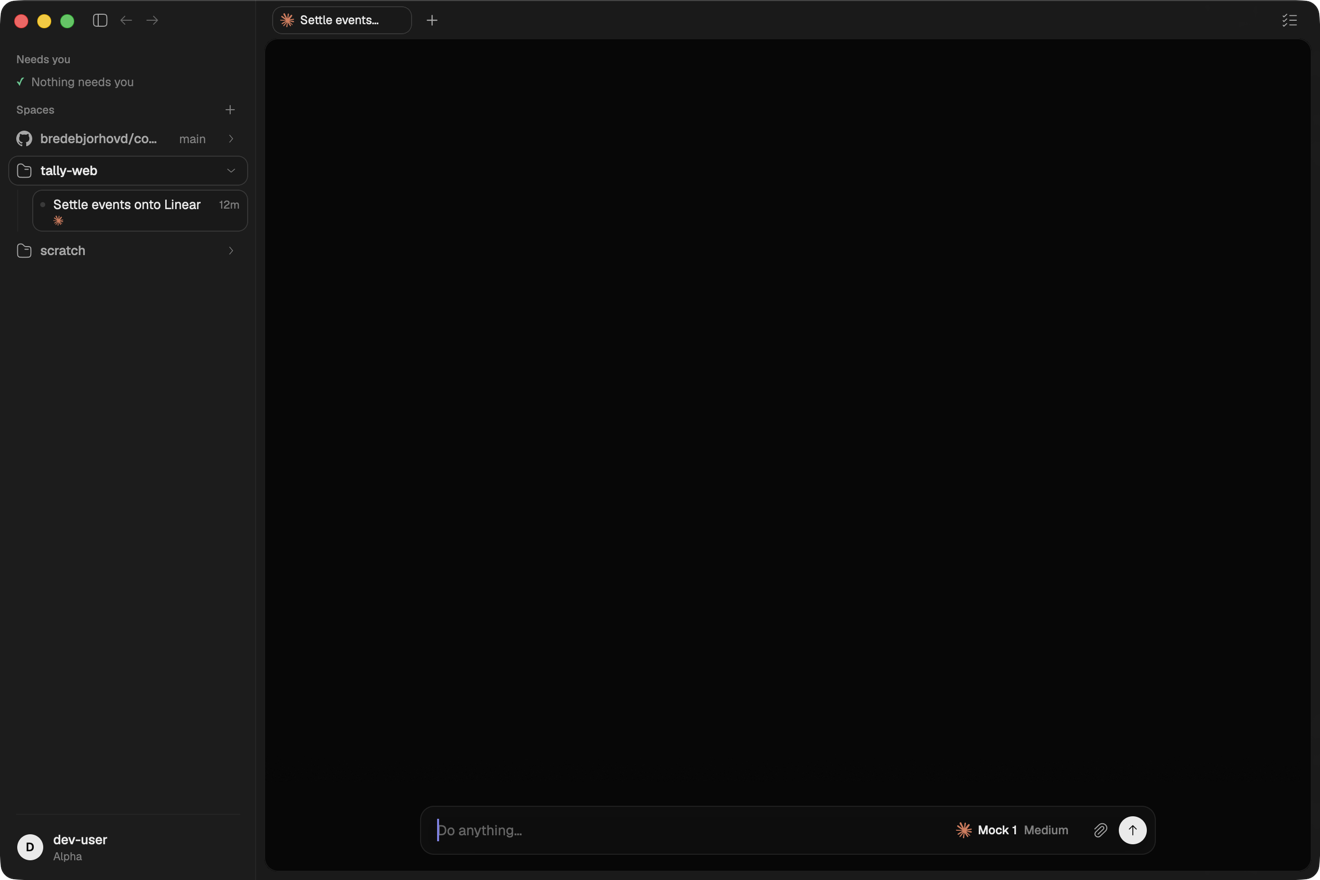
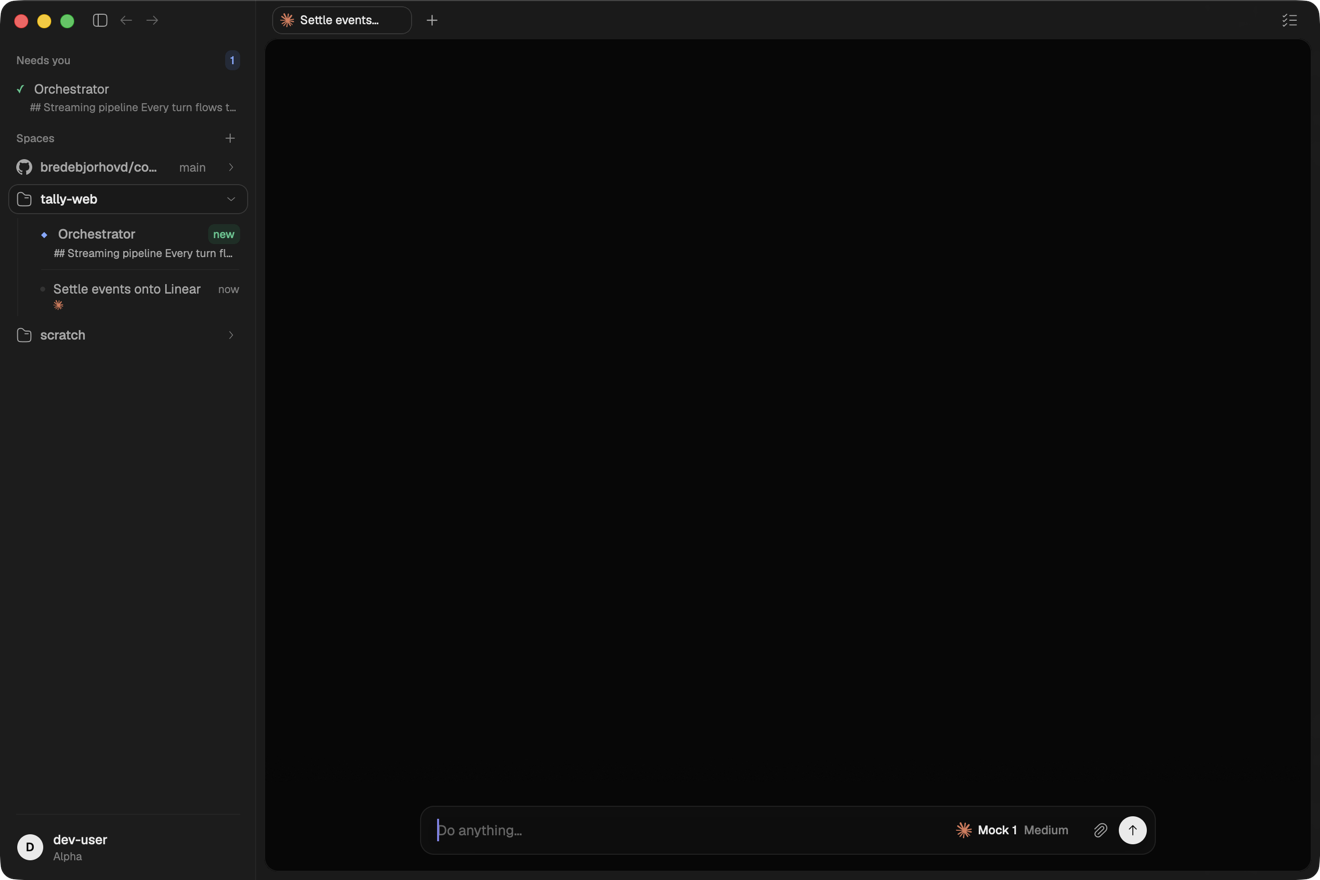
fix(ui): address desktop fidelity review

Changed region(s): [[0.0, 0.0614, 0.1864, 0.3375], [0.1553, 0.0614, 0.1864, 0.092], [0.0311, 0.3682, 0.0621, 0.3989]]

diff --git a/crates/ui/src/shell/spaces.rs b/crates/ui/src/shell/spaces.rs
@@ -14,15 +14,13 @@
 //! competing with the tab strip, and neither was authoritative. The tab strip
 //! stays as in-space navigation with the titlebar duties.
 //!
-//! ## One full row per chat (gh#138)
+//! ## One full row per chat (gh#138, gh#258)
 //!
-//! Active and the tree still answer different questions, but only one of them
-//! draws a chat at a time: **Active owns it while its session is live, the
-//! space's shelf shows it when idle.** Otherwise a box whose whole load sits
-//! in one space renders that space as a verbatim copy of the list above it.
-//! Two things keep the surfaces tied — the space row's `· 3 running` count,
-//! and the shelf's own note when Active holds every one of its sessions
-//! ([`spaces_view::space_shelf`]).
+//! Spaces is the primary hierarchy: a disclosure draws its Orchestrator first,
+//! then live sessions, then idle sessions. Active is only the fallback for a
+//! live row whose current placement resolves to no known Space. That fallback
+//! matters because Chat and Space watches settle independently; a dangling
+//! `space_id` must stay visible while the Space side catches up.
 //!
 //! A space row is named repo-first: `owner/repo` where a host has supplied the
 //! gh#118 link ([`Shell::refresh_space_slugs`]), the folder basename otherwise.
@@ -86,6 +84,13 @@ const SPACE_QUALIFIER_MAX: f32 = 132.0;
 /// qualifier: a branch name is a location, not an identity, so `board-gh-229-…`
 /// eliding is a shortened fact rather than an ambiguous row.
 const SPACE_BRANCH_MAX: f32 = 96.0;
+
+/// Selection belongs to the hierarchy's parent while a child is disclosed.
+/// In light mode both selected fills are white, so painting both would produce
+/// the nested parent/child plates the reference deliberately avoids.
+fn disclosed_child_selected(parent_selected: bool, child_selected: bool) -> bool {
+    child_selected && !parent_selected
+}
 
 /// Drag-reorder state for the spaces list; `epoch` keys the 150ms slide
 /// animation restarts (the session-tab idiom, vertical).
@@ -395,6 +400,17 @@ impl Shell {
     /// The chevron's toggle — collapse if disclosed, disclose if not. Does not
     /// activate the space; that is the row's job.
     fn toggle_space_disclosure(&mut self, space_id: &str, cx: &mut Context<Self>) {
+        let forced_open = {
+            let state = self.state.read(cx);
+            spaces_view::space_disclosure_forced_open(
+                state.selected_space.as_deref() == Some(space_id),
+                state.orchestrator_slot(Utc::now()).is_some(),
+            )
+        };
+        if forced_open {
+            self.expand_space(space_id, cx);
+            return;
+        }
         if let Some(ix) = self
             .settings
             .expanded_spaces
@@ -502,7 +518,16 @@ impl Shell {
             .iter()
             .map(|(chat, space)| (chat.as_str(), space.as_deref()))
             .collect();
-        let (spaces, selected, device_names, device_presence, attention, slugs, local_device) = {
+        let (
+            spaces,
+            selected,
+            device_names,
+            device_presence,
+            attention,
+            slugs,
+            local_device,
+            has_orchestrator,
+        ) = {
             let now = Utc::now();
             let state = self.state.read(cx);
             let spaces = state.spaces.clone();
@@ -562,6 +587,7 @@ impl Shell {
                 attention,
                 state.space_slugs.clone(),
                 state.local_device_id.clone(),
+                state.orchestrator_slot(now).is_some(),
             )
         };
         // Manual (drag) order overrides the synced creation order — device-
@@ -705,7 +731,12 @@ impl Shell {
                     // while collapsed (gh#229) — owner-stamped, so it costs no
                     // RPC and is true on a phone that will never see the disk.
                     let branch = spaces_view::space_branch(&space).map(str::to_string);
-                    let expanded = self.space_expanded(&space.id) && !drag_active;
+                    let expanded = (self.space_expanded(&space.id)
+                        || spaces_view::space_disclosure_forced_open(
+                            is_selected,
+                            has_orchestrator,
+                        ))
+                        && !drag_active;
                     // What Active holds for this space — the count the row
                     // wears, and the rows the shelf therefore skips.
                     let order = self.tab_ids(&id, cx);
@@ -1182,7 +1213,14 @@ impl Shell {
             let selected = self.state.read(cx).selected_chat.clone();
             live.iter()
                 .map(|row| {
-                    let is_selected = selected.as_deref() == Some(row.chat_id());
+                    // The selected Space owns selection for its disclosed
+                    // hierarchy. Painting the selected child too nests two
+                    // white plates in light; the reference leaves children on
+                    // the disclosed bed.
+                    let is_selected = disclosed_child_selected(
+                        orchestrator,
+                        selected.as_deref() == Some(row.chat_id()),
+                    );
                     match row {
                         ActiveRow::Agent(agent) => {
                             self.render_agent_row(agent, is_selected, now, theme, cx)
@@ -1212,7 +1250,10 @@ impl Shell {
                     Some(self.render_space_session_row(
                         &chat,
                         status,
-                        selected.as_deref() == Some(*chat_id),
+                        disclosed_child_selected(
+                            orchestrator,
+                            selected.as_deref() == Some(*chat_id),
+                        ),
                         pinned.as_deref() == Some(*chat_id),
                         now,
                         theme,
@@ -1633,11 +1674,9 @@ impl Shell {
     /// here); a pinned-but-silent orchestrator renders as the empty fixture,
     /// teaching where to look before the first notice arrives.
     ///
-    /// It is the first row inside the selected space's disclosure (gh#258),
-    /// and falls back above Spaces when no expanded space can host it
-    /// ([`Self::render_orphan_orchestrator_slot`]). The row itself carries no
-    /// outer margin, so whichever of the two places it lands in owns its
-    /// spacing.
+    /// It is the first row inside the selected space's disclosure (gh#258).
+    /// That disclosure is forced open while this row exists, so the ownership
+    /// stays visible even if the saved disclosure state says collapsed.
     pub(super) fn render_orchestrator_slot(
         &mut self,
         theme: &Theme,
@@ -1645,8 +1684,6 @@ impl Shell {
     ) -> Option<AnyElement> {
         let now = Utc::now();
         let slot = self.state.read(cx).orchestrator_slot(now)?;
-        let selected = self.state.read(cx).selected_chat.as_deref() == Some(slot.chat_id.as_str());
-
         let subline = theme.text_subtle;
         let fade_key = format!("orch-slot-{}", slot.chat_id);
         let chat_id = slot.chat_id.clone();
@@ -1723,7 +1760,10 @@ impl Shell {
                 .rounded(px(Theme::RADIUS_ROW))
                 .px(px(Theme::SPACE_SM))
                 .py(px(6.0))
-                .list_row(theme, Bed::Shell, selected, fade_key)
+                // The selected Space row owns the hierarchy's selection fill;
+                // its Orchestrator child remains unfilled like every other
+                // disclosed child in the reference.
+                .list_row(theme, Bed::Shell, false, fade_key)
                 .cursor_pointer()
                 // Opening it opens the thread — and marks it seen, the synced
                 // marker that clears the badge on every device.
@@ -1798,8 +1838,8 @@ impl Shell {
     }
 
     /// What is left of the "Active" group (gh#123, cut back by gh#258): the
-    /// live runs no space can hold — a working chat whose `space_id` is unset,
-    /// which no disclosure in the tree above will ever draw.
+    /// live runs no space can hold — a working chat whose placement is unset
+    /// or dangling, which no disclosure in the tree above can draw yet.
     ///
     /// It sits BELOW the tree, not above it, and it is `None` whenever every
     /// run has a home — which is the ordinary case. A live run must always
@@ -1854,34 +1894,6 @@ impl Shell {
                 .flex_col()
                 .child(header)
                 .child(div().flex().flex_col().gap(px(2.0)).children(rows))
-                .into_any_element(),
-        )
-    }
-
-    /// The orchestrator's slot when no expanded space is there to host it —
-    /// nothing selected yet, or the selected space collapsed.
-    ///
-    /// The pinned slot is the only way to reach the orchestrator's thread when
-    /// its chat has no other row on screen, so it cannot simply disappear with
-    /// the disclosure it normally lives in. It reappears above Spaces, where it
-    /// used to live full-time.
-    pub(super) fn render_orphan_orchestrator_slot(
-        &mut self,
-        theme: &Theme,
-        cx: &mut Context<Self>,
-    ) -> Option<AnyElement> {
-        let hosted = {
-            let state = self.state.read(cx);
-            state.selected_space.clone()
-        }
-        .is_some_and(|space| self.space_expanded(&space));
-        if hosted {
-            return None;
-        }
-        Some(
-            div()
-                .mt(px(Theme::SPACE_MD))
-                .child(self.render_orchestrator_slot(theme, cx)?)
                 .into_any_element(),
         )
     }
@@ -4333,6 +4345,13 @@ impl Shell {
 mod tests {
     use super::*;
     use comet_rpc::RpcError;
+
+    #[test]
+    fn a_selected_space_owns_selection_instead_of_its_selected_child() {
+        assert!(!disclosed_child_selected(true, true));
+        assert!(disclosed_child_selected(false, true));
+        assert!(!disclosed_child_selected(false, false));
+    }
 
     /// The line gh#155 turns on: which failures mean "this device is not a
     /// host" (and vanish from the picker), and which mean "this device was

diff --git a/crates/proto/src/view/spaces.rs b/crates/proto/src/view/spaces.rs
@@ -256,6 +256,7 @@ pub fn space_branch(space: &Space) -> Option<&str> {
 pub fn active_placements<'a>(
     active: &'a [ActiveRow],
     chats: &'a [Chat],
+    spaces: &[Space],
 ) -> Vec<(&'a str, Option<&'a str>)> {
     active
         .iter()
@@ -264,10 +265,24 @@ pub fn active_placements<'a>(
             let space = chats
                 .iter()
                 .find(|chat| chat.id == chat_id)
-                .and_then(|chat| chat.space_id.as_deref());
+                .and_then(|chat| chat.space_id.as_deref())
+                // Chats and Spaces arrive on independent watches. Until a
+                // referenced Space arrives (or after it has been removed),
+                // the placement is unresolved and must use Active's fallback
+                // rather than disappear between the two renderers.
+                .filter(|space_id| spaces.iter().any(|space| space.id == *space_id));
             (chat_id, space)
         })
         .collect()
+}
+
+/// Whether the selected Space's disclosure is structurally required to stay
+/// open because it owns the visible Orchestrator row.
+///
+/// This is shared by rendering and the chevron action so persisted collapsed
+/// state cannot briefly move the Orchestrator outside its Space or hide it.
+pub fn space_disclosure_forced_open(selected: bool, has_orchestrator: bool) -> bool {
+    selected && has_orchestrator
 }
 
 /// The live chats a space's disclosure draws, in the order Active derived them
@@ -285,8 +300,9 @@ pub fn space_live<'a>(space_id: &str, active: &[(&'a str, Option<&'a str>)]) -> 
         .collect()
 }
 
-/// The live chats no space claims — a run whose chat has no `space_id`, which
-/// no disclosure can draw.
+/// The live chats no current space claims — either the chat has no `space_id`
+/// or [`active_placements`] normalized a dangling reference to `None` while
+/// the independent Space watch catches up.
 ///
 /// These are the only rows that still need a group of their own, and it sits
 /// BELOW the spaces tree: a live run must always have a row somewhere, and the
@@ -614,14 +630,34 @@ mod tests {
     }
 
     #[test]
-    fn placements_find_the_space_an_attempt_never_names() {
+    fn placements_find_only_spaces_the_current_watch_knows() {
         let chats = vec![chat("c1", Some("s1")), chat("c2", None)];
         let active = vec![agent_row("c1"), agent_row("c2"), agent_row("gone")];
-        let placements = active_placements(&active, &chats);
+        let spaces = vec![space("s1", "local", "/s1")];
+        let placements = active_placements(&active, &chats, &spaces);
         assert_eq!(
             placements,
             [("c1", Some("s1")), ("c2", None), ("gone", None)]
         );
+    }
+
+    #[test]
+    fn a_dangling_space_reference_falls_back_to_active() {
+        let chats = vec![chat("dangling", Some("not-in-the-space-watch"))];
+        let active = vec![agent_row("dangling")];
+        let spaces = vec![space("known", "local", "/known")];
+
+        let placements = active_placements(&active, &chats, &spaces);
+
+        assert_eq!(placements, [("dangling", None)]);
+        assert_eq!(homeless_live(&placements), ["dangling"]);
+    }
+
+    #[test]
+    fn a_selected_space_with_an_orchestrator_stays_disclosed() {
+        assert!(space_disclosure_forced_open(true, true));
+        assert!(!space_disclosure_forced_open(true, false));
+        assert!(!space_disclosure_forced_open(false, true));
     }
 
     #[test]

diff --git a/crates/ui/src/shell.rs b/crates/ui/src/shell.rs
@@ -2246,7 +2246,7 @@ impl Shell {
         let active = self.board.read(cx).active(cx, active_now);
         let placements: Vec<(String, Option<String>)> = {
             let state = self.state.read(cx);
-            comet_proto::view::spaces::active_placements(&active, &state.chats)
+            comet_proto::view::spaces::active_placements(&active, &state.chats, &state.spaces)
                 .into_iter()
                 .map(|(chat, space)| (chat.to_string(), space.map(str::to_string)))
                 .collect()
@@ -2256,8 +2256,6 @@ impl Shell {
         // disclosure can hold. Below the tree, not above it.
         let loose_section =
             self.render_loose_active_section(&active, &placements, active_now, theme, cx);
-        // …and the orchestrator, when no expanded space is there to host it.
-        let orchestrator_slot = self.render_orphan_orchestrator_slot(theme, cx);
 
         div()
             .w(px(self.settings.sidebar_width))
@@ -2287,14 +2285,6 @@ impl Shell {
                             .flex()
                             .flex_col()
                             .child(needs_section)
-                            .children(orchestrator_slot.map(|slot| {
-                                div()
-                                    .flex()
-                                    .flex_col()
-                                    .child(slot)
-                                    .child(Self::render_orchestrator_rule(theme))
-                                    .into_any_element()
-                            }))
                             .child(spaces_section)
                             .children(loose_section)
                             .child(div().pb(px(Theme::SPACE_SM))),

diff --git a/crates/ui/src/settings/accounts.rs b/crates/ui/src/settings/accounts.rs
@@ -203,6 +203,17 @@ pub fn format_reset(resets_at: Option<DateTime<Utc>>, now: DateTime<Utc>) -> Opt
     })
 }
 
+/// Reference copy for an account usage window. The engine calls Claude's
+/// rolling five-hour allowance "Session"; the supplied Settings design names
+/// the duration instead.
+pub fn usage_window_label(label: &str) -> &str {
+    if label == "Session" {
+        "5 hours"
+    } else {
+        label
+    }
+}
+
 /// The provider cards, in display order: (harness, name, CLI command — named
 /// in the empty-state copy, comet settings.agents.tsx `PROVIDERS`).
 pub const PROVIDERS: [(HarnessId, &str, &str); 3] = [
@@ -1040,7 +1051,7 @@ impl AccountsPage {
                     .w(px(48.0))
                     .flex_none()
                     .truncate()
-                    .child(SharedString::from(window.label.clone())),
+                    .child(SharedString::from(usage_window_label(&window.label).to_string())),
             )
             .child(
                 div()
@@ -2138,5 +2149,11 @@ mod tests {
         assert_eq!(ids, ["c2", "c1"], "active account leads");
         assert_eq!(provider_accounts(&snapshot, HarnessId::Codex).len(), 1);
         assert!(provider_accounts(&snapshot, HarnessId::Cursor).is_empty());
+    }
+
+    #[test]
+    fn the_session_window_uses_the_reference_duration_copy() {
+        assert_eq!(usage_window_label("Session"), "5 hours");
+        assert_eq!(usage_window_label("Week"), "Week");
     }
 }

diff --git a/crates/proto/src/entities.rs b/crates/proto/src/entities.rs
@@ -166,8 +166,9 @@ pub struct Chat {
     #[serde(default, skip_serializing_if = "Option::is_none")]
     pub harness_session_cwd: Option<String>,
     /// The space this chat belongs to. Invariant: `Some` for every UI-created
-    /// chat; rows with a missing/dangling space id are not rendered (the host
-    /// device's repair sweep deletes its own danglers).
+    /// chat. The host device's repair sweep deletes its own danglers; while
+    /// independent Chat and Space watches converge, view placement treats a
+    /// missing/dangling id as unresolved and keeps live work in Active.
     #[serde(default, skip_serializing_if = "Option::is_none")]
     pub space_id: Option<String>,
     /// Synced LWW seen marker — compared against `last_message_at` to derive

diff --git a/crates/tui/src/app.rs b/crates/tui/src/app.rs
@@ -2248,7 +2248,7 @@ impl App {
             now,
         );
         let placed: Vec<(String, Option<String>)> =
-            spaces_view::active_placements(&active, &self.chats)
+            spaces_view::active_placements(&active, &self.chats, &self.spaces)
                 .into_iter()
                 .map(|(chat, space)| (chat.to_string(), space.map(str::to_string)))
                 .collect();
